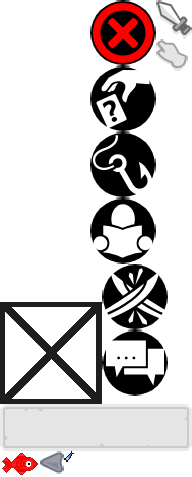
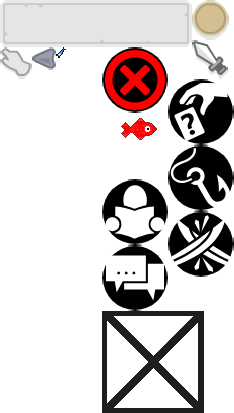
Adds improved fishing pointer

diff --git a/src/app/game/engine/renderer/component/FishingComponetRenderer.ts b/src/app/game/engine/renderer/component/FishingComponetRenderer.ts
@@ -21,6 +21,7 @@ export class FishingComponentRenderer extends ComponentRenderer<FishingComponent
   private fishingMeter: Phaser.GameObjects.Image;
   private fishingIcon: Phaser.GameObjects.Image;
   private fishingZone: Phaser.GameObjects.Zone;
+  private fishingActionIcon: Phaser.GameObjects.Image;
   private hasSetup = false;
 
   constructor(
@@ -49,9 +50,18 @@ export class FishingComponentRenderer extends ComponentRenderer<FishingComponent
     ));
     this.fishingTarget = new Phaser.Math.Vector2(centered.x, centered.y);
 
+    this.fishingActionIcon = this.ctx.game.add.image(
+      this.fishingTarget.x + this.indicatorOffset.x + 80,
+      this.fishingTarget.y + this.indicatorOffset.y,
+      UIAtlas,
+      UIConstants.ICON_FISHING_BUTTON
+    );
+    this.fishingActionIcon.setScale(2);
+    this.fishingActionIcon.depth = VisualDepth.UI_LOWER;
+
     this.graphicsFishline = this.ctx.game.add.graphics();
     this.graphicsArea = this.ctx.game.add.graphics();
-    this.graphicsArea.z = VisualDepth.UI_LOWER;
+    this.graphicsArea.depth = VisualDepth.UI_LOWER;
 
     this.fishingMeter = this.ctx.game.add.image(
       this.fishingTarget.x + this.indicatorOffset.x,
@@ -67,10 +77,10 @@ export class FishingComponentRenderer extends ComponentRenderer<FishingComponent
       UIConstants.ICON_FISHING
     );
     this.fishingIcon.setOrigin(0.5);
+    this.fishingIcon.depth = VisualDepth.UI_LOWER;
     const arcadeBody = this.fishingIcon.body as Phaser.Physics.Arcade.Body;
     arcadeBody.collideWorldBounds = false;
     arcadeBody.allowGravity = false;
-    // arcadeBody.width = 32;
     arcadeBody.height = 32;
     arcadeBody.offset.x = 16;
     arcadeBody.setVelocityY(10);
@@ -119,6 +129,9 @@ export class FishingComponentRenderer extends ComponentRenderer<FishingComponent
 
     this.fishingZone.destroy();
     this.fishingZone = null;
+
+    this.fishingActionIcon.destroy();
+    this.fishingActionIcon = null;
   }
 
   protected updateGameData(entity: Entity, component: FishingComponent) {

diff --git a/src/app/game/engine/pointer/FishingPointer.ts b/src/app/game/engine/pointer/FishingPointer.ts
@@ -13,8 +13,6 @@ import { UIAtlas, UIConstants } from 'app/game/ui';
  */
 export class FishingPointer extends Pointer {
 
-  private marker: Phaser.GameObjects.Image;
-
   constructor(
     manager: PointerManager,
     ctx: EngineContext
@@ -31,10 +29,6 @@ export class FishingPointer extends Pointer {
     fishingComponent.hasClickedFishingAction = true;
   }
 
-  public updatePointerPosition(px: Px, pos: Point, overEntity?: Entity) {
-    this.marker.setPosition(px.x, px.y);
-  }
-
   public reportPriority(px: Px, pos: Point, overEntity?: Entity): number {
     const playerEntity = this.ctx.playerHolder.activeEntity;
     return (playerEntity.hasComponent(ComponentType.FISHING)) ? PointerPriority.FISHING : PointerPriority.NONE;
@@ -42,12 +36,9 @@ export class FishingPointer extends Pointer {
 
   public activate() {
     this.ctx.cursorManager.hide();
-    this.marker = this.ctx.game.add.image(0, 0, UIAtlas, UIConstants.ICON_FISHING);
   }
 
   public deactivate() {
     this.ctx.cursorManager.show();
-    this.marker.destroy();
-    this.marker = null;
   }
 }

diff --git a/src/app/game/demo/FishingComponentHandler.ts b/src/app/game/demo/FishingComponentHandler.ts
@@ -21,6 +21,7 @@ export class FishingComponentHandler extends ClientMessageHandler<UpdateComponen
       return false;
     }
   }
+
   public handle(msg: UpdateComponentMessage<FishingComponent>) {
     if (this.hasSuccessfullFished(msg.component)) {
       const playerEntity = this.serverEntities.getEntity(this.playerEntityId);

diff --git a/src/app/game/ui/UiConstants.ts b/src/app/game/ui/UiConstants.ts
@@ -13,6 +13,7 @@ const UIConstants = {
   ICON_TALK: 'talk.png',
   ICON_LOOT: 'card-pickup.png',
   ICON_FISHING_METER: 'fishing-meter.png',
+  ICON_FISHING_BUTTON: 'button-fishing.png',
   ICON_FISHING: 'fish.png',
 
   UI_ITEM_OBTAINED_BG: 'item-obtained.png',
